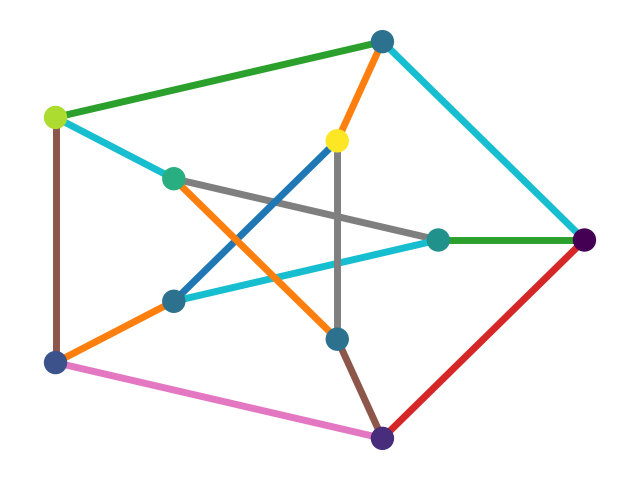
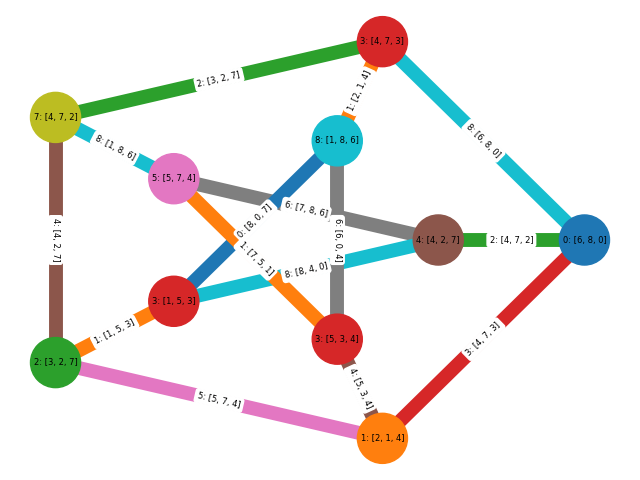
Add list assignment labels to nodes and vertices in total colouring example.

Changed region(s): [[0.0312, 0.0312, 0.9688, 0.9688]]

diff --git a/src/petersen-shell-total.py b/src/petersen-shell-total.py
@@ -12,16 +12,23 @@ G = list_init(G, range(0, 9), 3, 0)
 
 G = greedy_list_total_colouring(G)
 
-options = {'with_labels': False, "edge_cmap": plt.cm.tab10}
-
 G_layout = nx.shell_layout(G, nlist = [range(5, 10), range(5)], rotate = 0.)
 
-nx.draw(G,
-        G_layout,
-        edge_color = nx.get_edge_attributes(G,'colour').values(),
-        node_color = list(nx.get_node_attributes(G, 'colour').values()),
-        width = 5,
-        node_size = 250,
-        **options)
+edge_labels = dict([((n1, n2), str(d['colour']) + ': ' + str(d['permissible'])) for n1, n2, d in G.edges(data = True)])
+node_labels = dict([(n, str(d['colour']) + ': ' + str(d['permissible'])) for n, d in G.nodes(data = True)])
+
+nx.draw(G,      
+          pos = G_layout,
+   edge_color = nx.get_edge_attributes(G,'colour').values(),
+   node_color = list(nx.get_node_attributes(G, 'colour').values()),
+        width = 10,
+    node_size = 1300,
+         cmap = plt.cm.tab10,
+    edge_cmap = plt.cm.tab10,
+  with_labels = False
+)
+
+edge_labels_ = nx.draw_networkx_edge_labels(G, pos = G_layout, edge_labels = edge_labels, font_size = 6)
+node_labels_ = nx.draw_networkx_labels(G, pos = G_layout, labels = node_labels, font_size = 6)
 
 plt.savefig("png/petersen-shell-total.png", format = "PNG")
